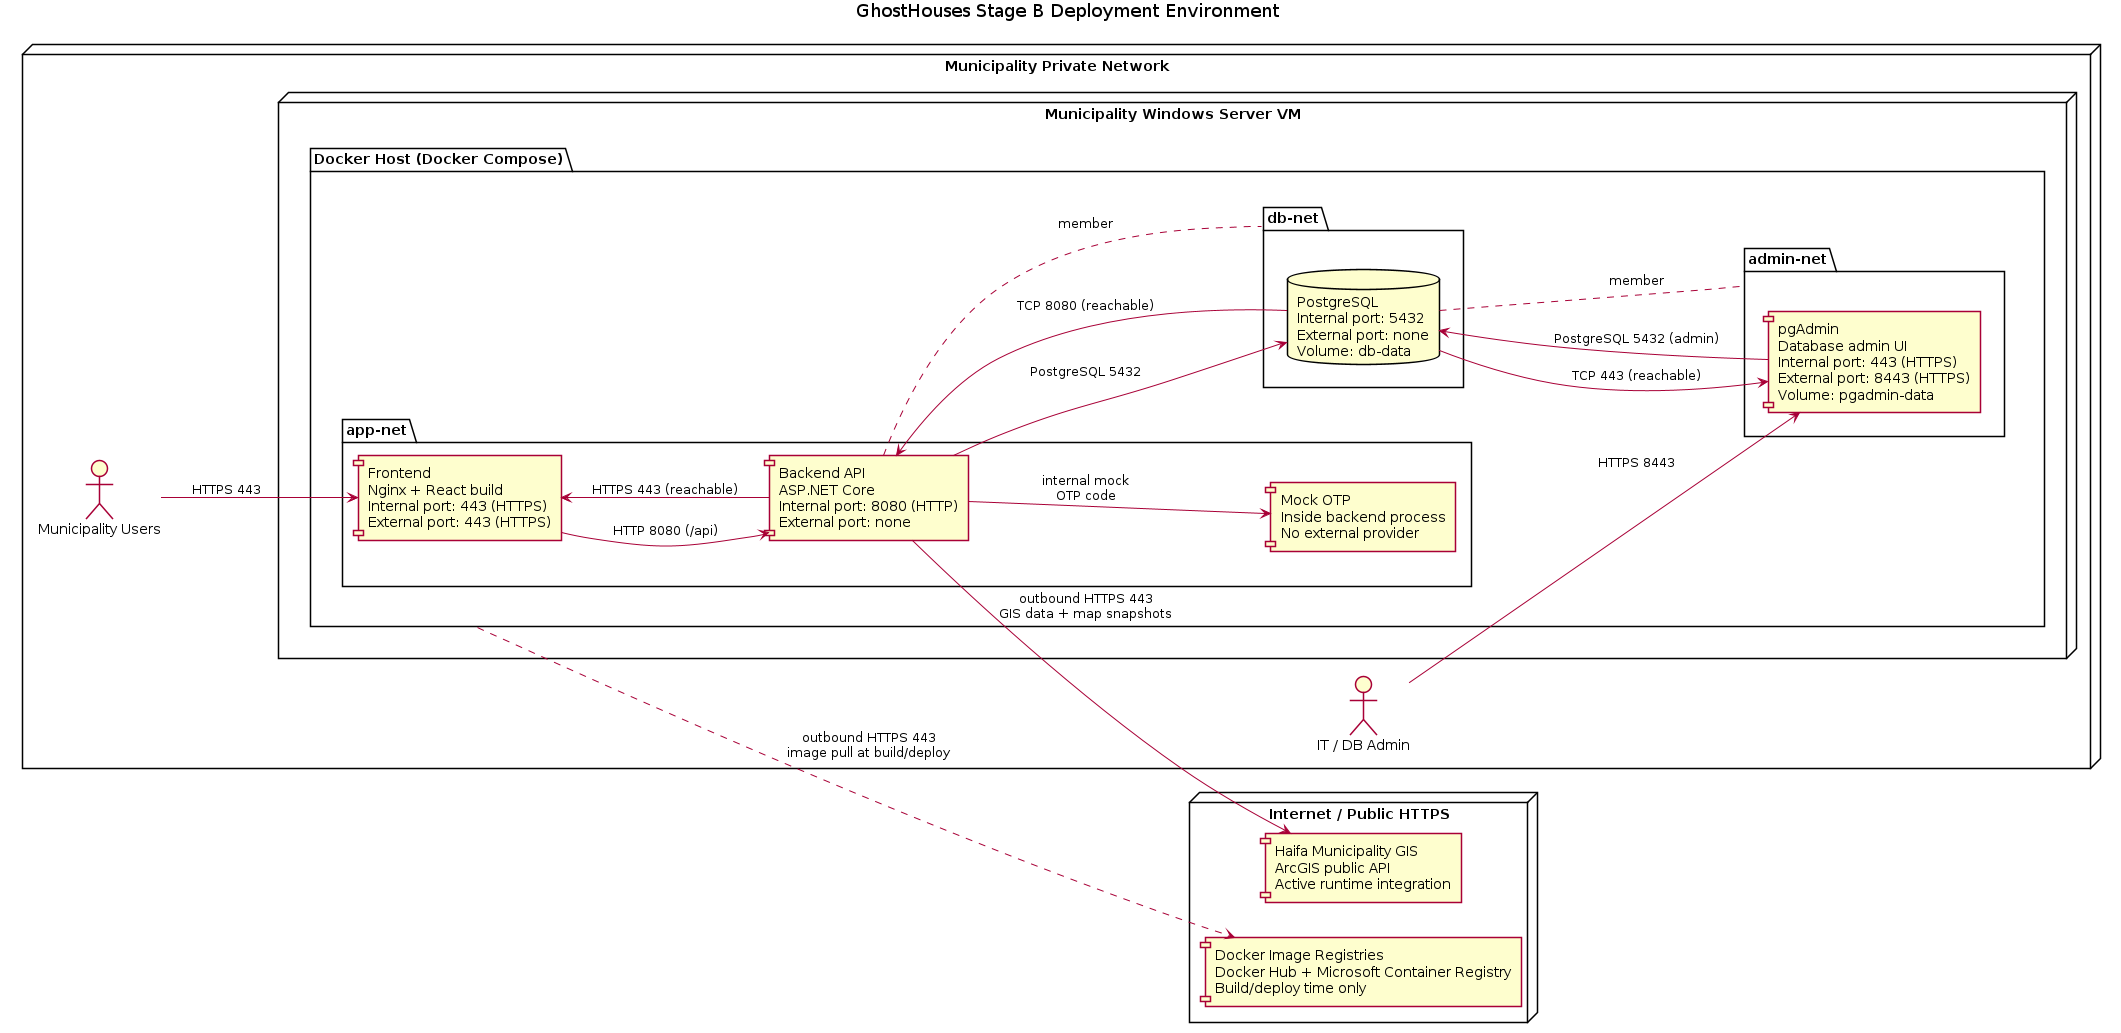
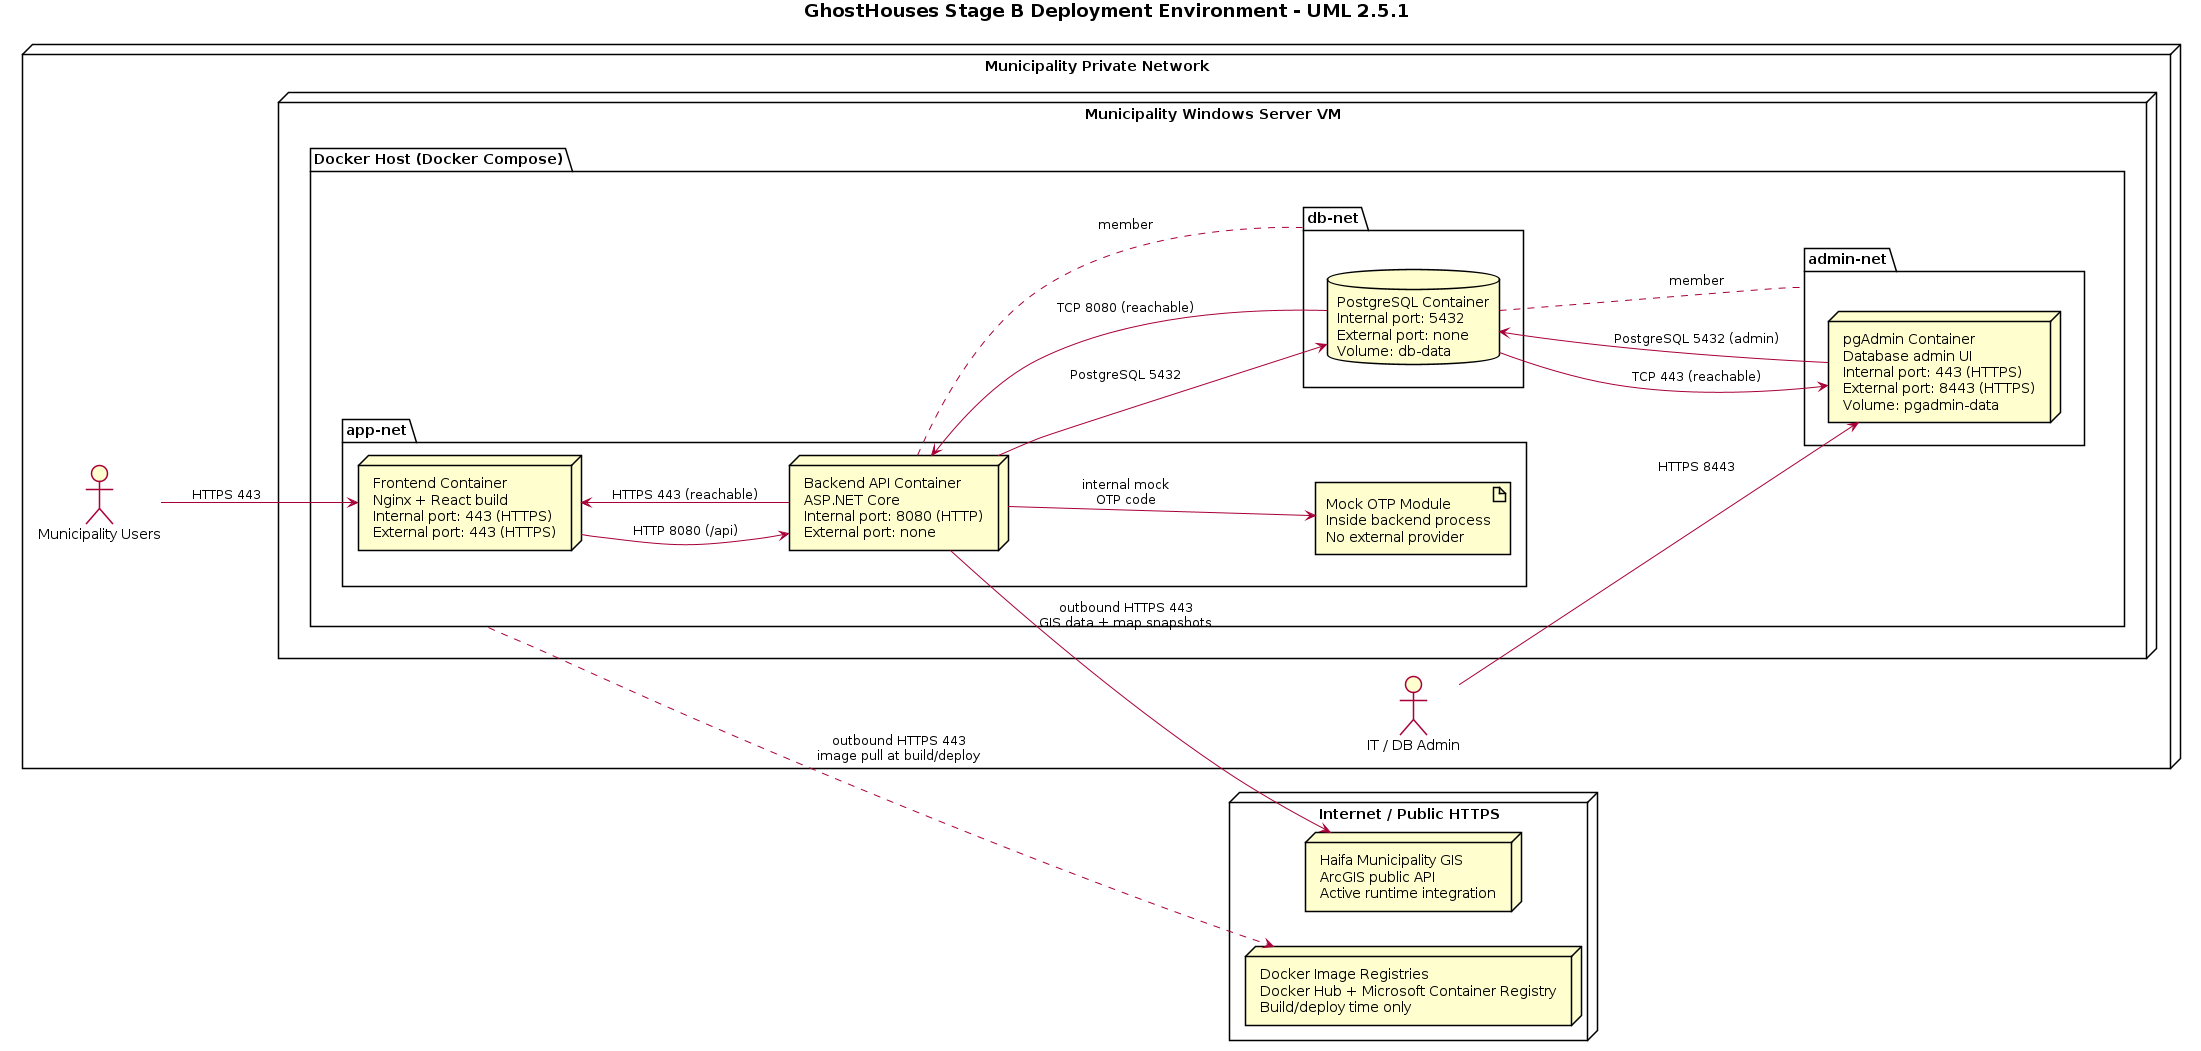
Document Stage B architecture and UML evidence

diff --git a/README.md b/README.md
@@ -129,6 +129,8 @@ This deployment path is intentionally simple and repeatable:
 ## Deployment Requirements and Dependencies
 This section documents the minimum environment needed to deploy GhostHouses and maps to the deployment grading rubric: deployment UML, software dependencies, and minimal hardware requirements.
 
+The UML diagrams are written in standard UML 2.5.1 style and rendered with PlantUML.
+
 ### Deployment UML
 The Stage B deployment UML is located here:
 - Source: `docs/submissions/stage-b/uml/deployment/deployment_environment.puml`
@@ -188,6 +190,43 @@ How we figured these requirements:
 - Building-card exports and GIS snapshots are heavier than normal page views, so 8 GB RAM gives safe headroom.
 - The system is for internal municipality users, not high-volume public traffic, so 4 vCPU and 8 GB RAM are enough for the expected workload.
 - 100 GB SSD gives room for the repository, Docker images, database volume, pgAdmin volume, logs, uploaded images, generated exports, and growth margin.
+
+## Maintainable Architecture
+This section documents the architecture evidence for the maintainability grading rubric.
+
+### UML Class Diagram
+The Stage B class UML is located here:
+- Source: `docs/submissions/stage-b/uml/class/class_diagram.puml`
+- Rendered image: `docs/submissions/stage-b/uml/class/class_diagram.png`
+
+The diagram was rebuilt from the current codebase as a presentation-friendly UML class diagram. It shows the main maintainability decisions without listing every DTO or helper record:
+- API layer: controllers, common controller bases, and the separation between authenticated API controllers and simpler controllers.
+- Service layer: replaceable contracts for audit, JWT, OTP, and GIS behavior.
+- Validation/import layer: shared building and street rules reused by manual editing and Excel import.
+- Persistence layer: `AppDbContext` as the EF Core boundary for PostgreSQL entities.
+- Domain layer: the main business entities and relationships used by the system.
+
+Why this matters for maintainability:
+- The diagram shows the important abstract classes directly, especially `ControllerBase` and `ApiControllerBase`, so shared controller behavior is visible instead of hidden in text.
+- It shows interface contracts separately from implementations, which makes it clear where future replacement is possible.
+- It shows that business entities are not mixed into controllers or deployment code, they remain in the domain layer.
+- It shows the persistence boundary explicitly, so database access is concentrated through `AppDbContext`.
+- It shows the active GIS integration and mocked OTP boundary without making either one look like a hard-coded dependency.
+
+### Good Use of Abstract Classes and Design Patterns
+The codebase uses a small number of practical abstractions where they reduce coupling or prepare the system for realistic change:
+
+- **Template-style controller base:** `ApiControllerBase` extends ASP.NET `ControllerBase` and centralizes shared authenticated API behavior, especially current-user access. This keeps repeated authentication/user lookup logic out of individual controllers.
+- **Dependency Injection:** ASP.NET Core injects services through constructors, so controllers depend on contracts and framework-managed dependencies instead of creating concrete objects directly.
+- **Interface-based service replacement:** `IAuditService`, `ITokenService`, `ITwoFactorService`, and `IGisSnapshotService` hide implementation details behind stable contracts. This is important because audit logging, JWT creation, OTP delivery, and GIS access are exactly the areas most likely to change after handoff.
+- **Strategy-like integration boundary:** GIS snapshot generation is isolated behind `IGisSnapshotService`. The current implementation uses Haifa ArcGIS, but a future municipality GIS provider can be swapped by replacing the service implementation instead of rewriting controllers or export logic.
+- **Adapter boundary for mocked OTP:** OTP is currently mocked in `TwoFactorService`, but the login flow calls `ITwoFactorService`. A real SMS/email provider can be adapted later without changing the controller flow.
+- **Centralized validation:** `BuildingRules` and `StreetRules` are shared by API actions and Excel import logic, so mandatory fields and business rules stay consistent across manual editing and bulk import.
+- **Persistence boundary:** `AppDbContext` is the single EF Core gateway to PostgreSQL. Controllers and services work through this boundary instead of spreading database access details across unrelated code.
+- **High cohesion:** each main area has one clear responsibility: controllers handle HTTP requests and authorization, services handle application behavior, rules handle validation, import helpers handle Excel parsing, `AppDbContext` handles persistence, and domain models represent business data.
+- **Low coupling:** controllers depend on service interfaces and stable boundaries instead of concrete external systems. For example, the building workflow calls `IGisSnapshotService` instead of directly depending on ArcGIS details, and the login flow calls `ITwoFactorService` instead of depending on a specific OTP provider.
+
+These choices keep the design simple, but still extensible. The project does not add abstract classes or interfaces for every small helper, only for places where replacement, reuse, or shared behavior is actually needed.
 
 ### Reset & Rebuild
 For a full reset, use the clean deployment command above. It deletes Docker volumes, so database data is removed.

diff --git a/docs/submissions/stage-b/README.md b/docs/submissions/stage-b/README.md
@@ -4,3 +4,4 @@ This folder contains Stage B submission and grading-support artifacts.
 
 ## Folders
 - `uml/deployment/`: deployment diagrams for the current handoff/deployment architecture.
+- `uml/class/`: presentation-friendly UML 2.5.1 class diagram for the current maintainable backend architecture.
